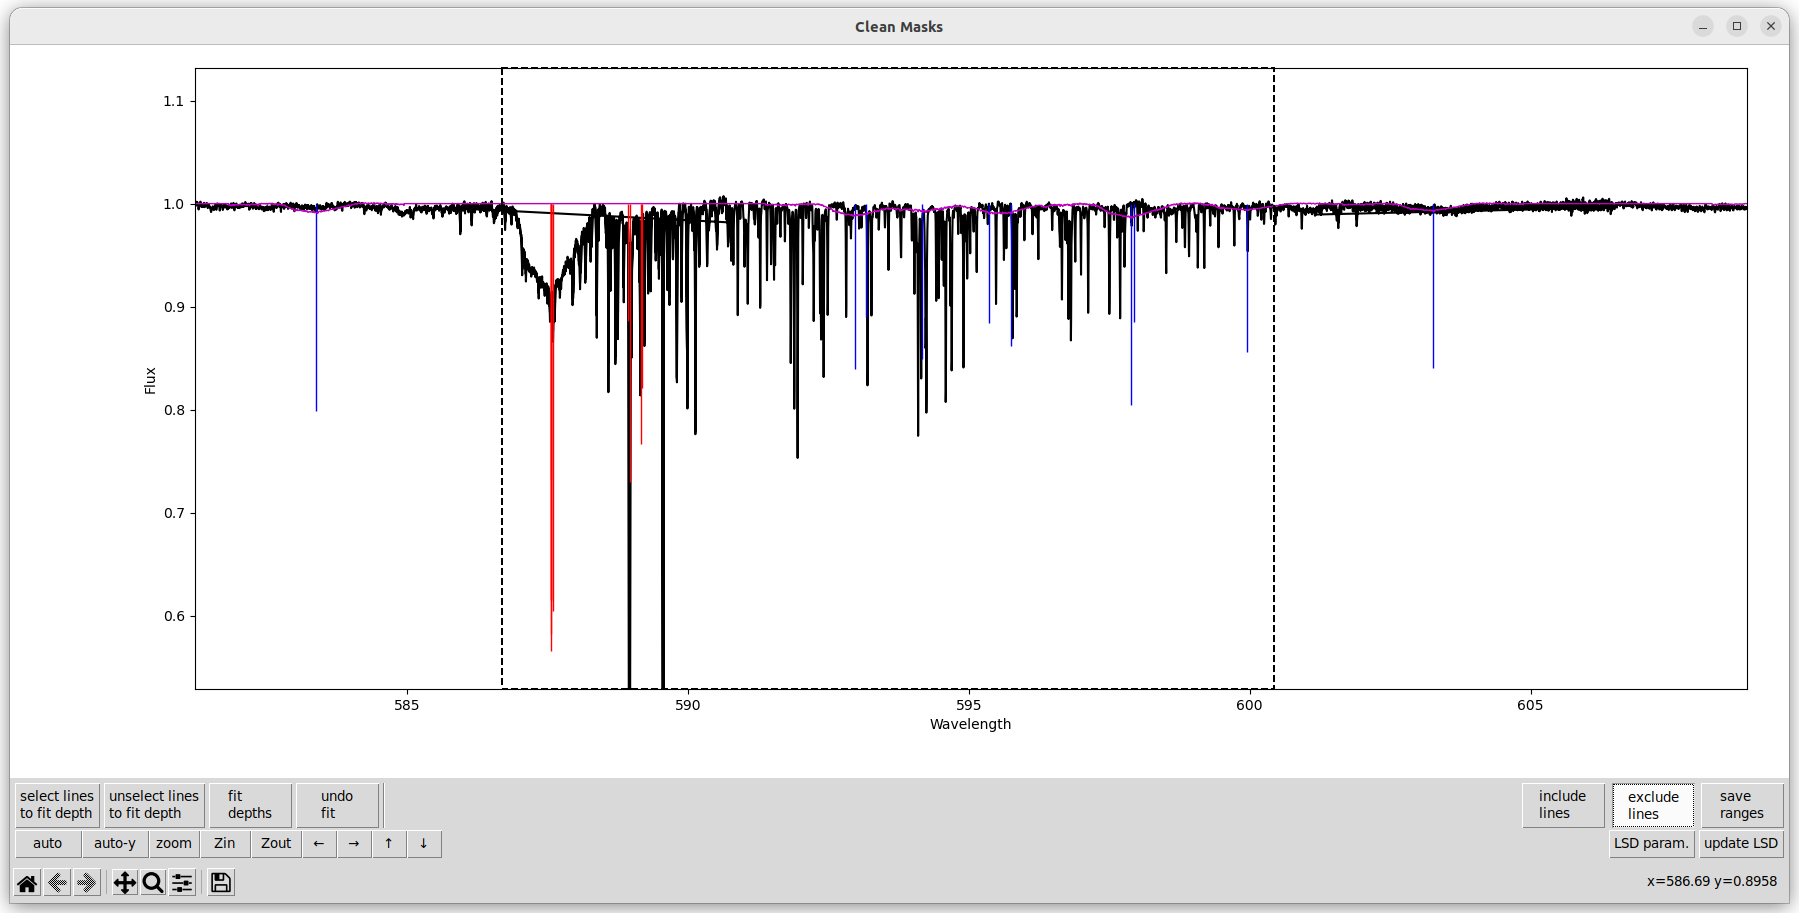
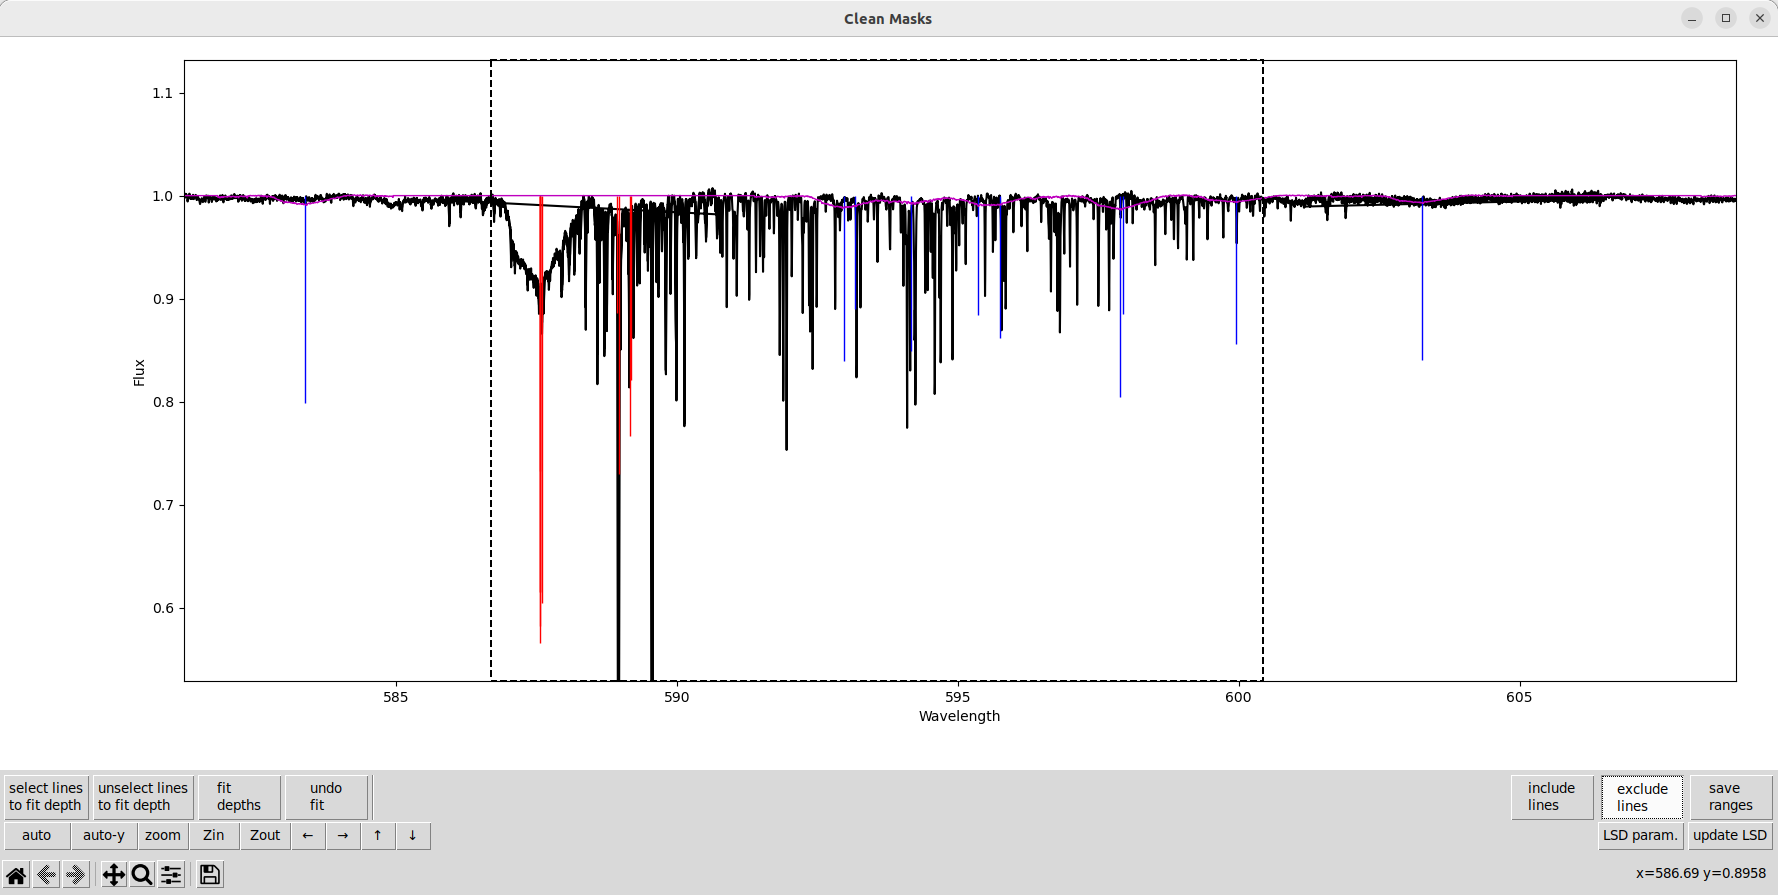
cleanMask tutorial formatting fixes

diff --git a/docs-jb/Tutorials/3b-MaskUI_Tutorial.md b/docs-jb/Tutorials/3b-MaskUI_Tutorial.md
@@ -138,7 +138,7 @@ Since the lines are relatively shallow in this star, we remove more lines blende
 ```{image} MaskUI_images/updateLSD-clean-telluric.png
 :alt: updateLSD-clean-telluric
 :class: bg-primary mb-1
-:width: 400px
+:width: 600px
 :align: center
 ```
 
@@ -147,7 +147,7 @@ We also remove some lines where the line depths are wrong and the lines aren't c
 ```{image} MaskUI_images/updateLSD-clean-weak-nd.png
 :alt: updateLSD-clean-weak-nd
 :class: bg-primary mb-1
-:width: 400px
+:width: 600px
 :align: center
 ```
 
